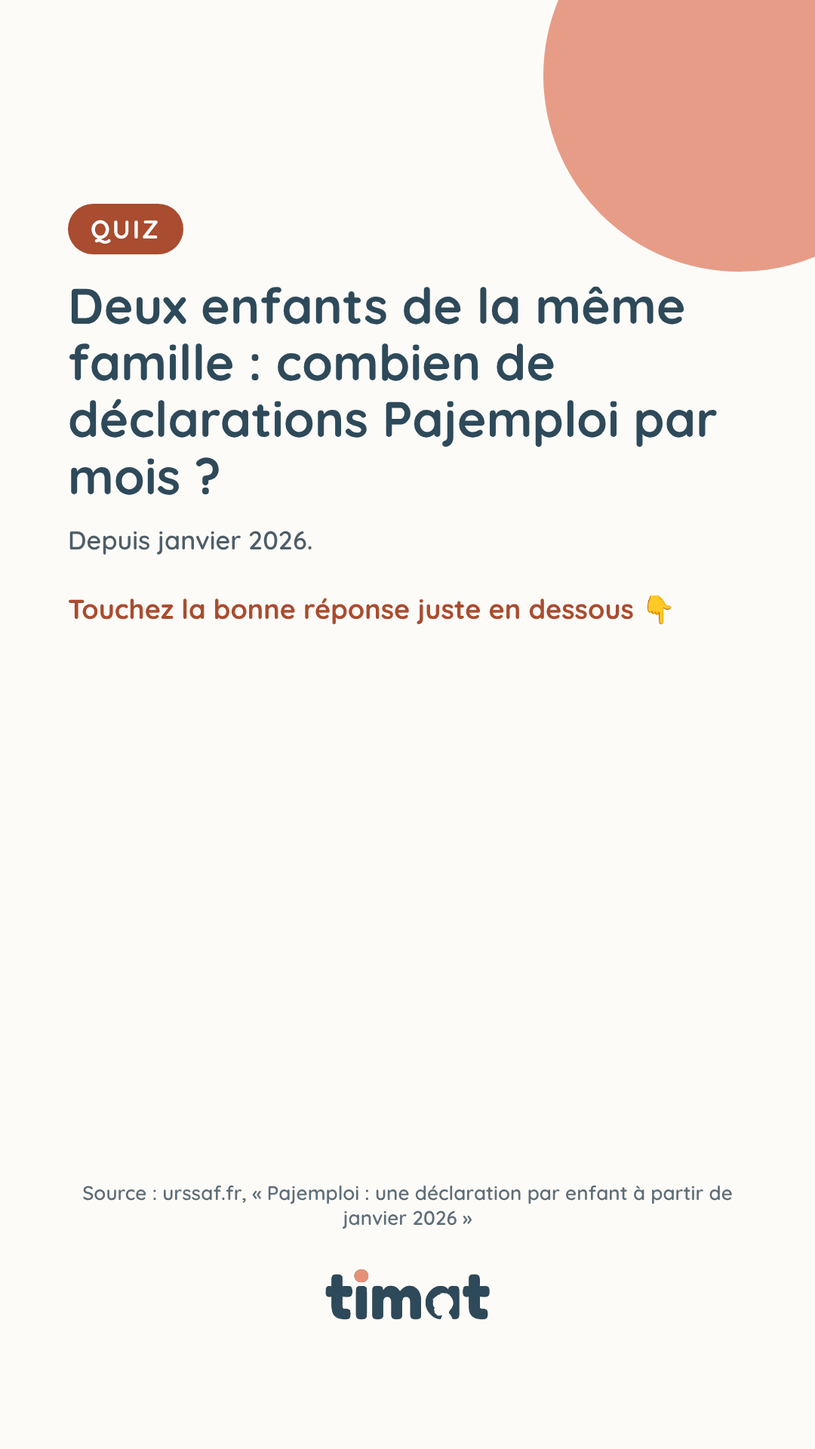
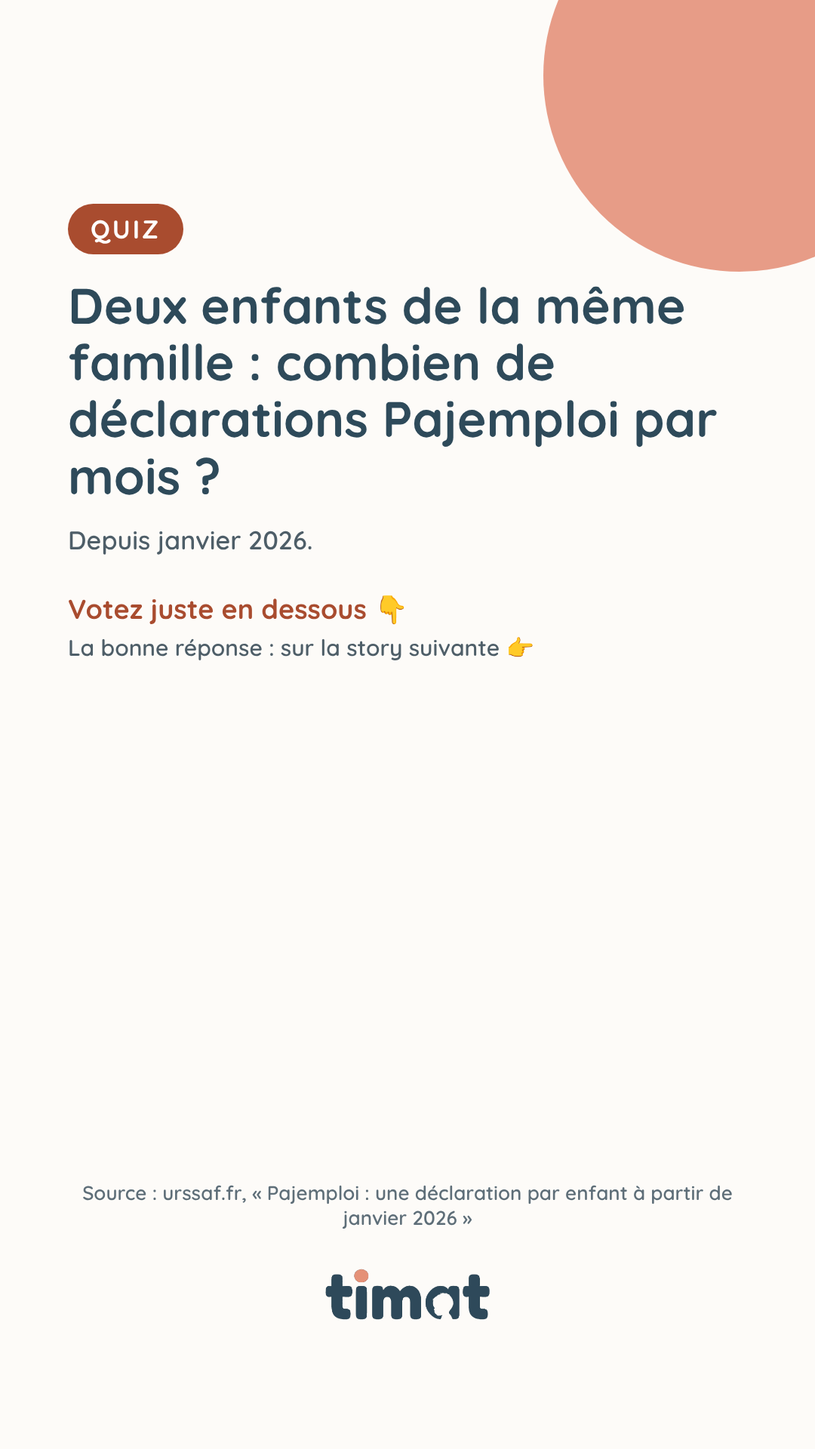
Titre AM-AP, minimum conventionnel, quiz en sondage avec la réponse juste après (#296)
Titre professionnel : l'avenant n° 10 du 5 février 2026 à l'annexe 5
(étendu) vise « Assistant maternel – Assistant parental » (AM-AP).
L'application et le vérificateur de bulletin ne nommaient que l'ancien
titre « Garde d'enfants » (AM-GE) : les deux sont désormais nommés, la
majoration de 4 % ne change pas (la DREETS Pays de la Loire l'applique
encore à l'ancien titre).

Un taux sous 4,20 € était dit « sous le minimum légal » (alerte du contrat,
note du bulletin, récapitulatif Pajemploi) : le minimum légal est
0,281 × SMIC, soit 3,46 €. 4,20 € est le minimum conventionnel. Barrière
d'audit prouvée en cassant ; contrôles existants et parcours navigateur
alignés sur le nouveau libellé.

Quiz : l'astuce du Reel en brouillon n'a pas fait revenir l'autocollant
Quiz sur le compte de Sophie. Repli : autocollant Sondage, puis la bonne
réponse en vert sur la story suivante, publiée au même moment, jamais le
soir. Images 27, 29, 40, 42, kit et CLAUDE.md à jour.

Claude-Session: https://claude.ai/code/session_01JVfHnHqQqeEKwpYvot8sHP

Changed region(s): [[0.0917, 0.4062, 0.7639, 0.4688], [0.7944, 0.4062, 0.825, 0.4375]]

diff --git a/docs/reseaux-sociaux/kit-reseaux.html b/docs/reseaux-sociaux/kit-reseaux.html
@@ -537,20 +537,20 @@ Jamais</pre></div>
 
     <h3>Une story par jour, du 24 au 30 octobre</h3>
     <p>Mêmes gestes que ST1 et ST2 : l'image depuis vos photos, puis l'autocollant indiqué, posé dans l'espace vide. Les jours de publication programmée (26, 28 et 30 octobre à 20 h 30), la story est la publication elle-même : soit l'image de story faite exprès (43 et suivantes), programmée dans Meta Business Suite à 20 h 35, soit, sous la publication, l'avion en papier → <b>Ajouter à votre story</b>.</p>
-    <p class="note"><b>Le vrai quiz d'Instagram</b> (demande de Sophie, 27/10 : on touche une réponse, elle devient verte si c'est la bonne, rouge sinon, tout de suite). Seul l'autocollant <b>Quiz</b> le fait. Il manquait sur le compte de Sophie ; l'astuce ci-dessous le fait revenir chez beaucoup de comptes depuis le printemps 2026 (Storrito). L'image quiz (27, 29, 40, 42) porte la question ; les réponses vont dans l'autocollant, posé sous « Touchez la bonne réponse juste en dessous ». Juste après, au même moment, on peut publier l'image d'explication (55 à 58 : la bonne réponse en vert et la source). Si l'autocollant Quiz reste introuvable : autocollant Sondage avec les mêmes réponses, puis l'image d'explication tout de suite après.</p>
+    <p class="note"><b>Le quiz sur le compte de Sophie</b>. Elle voulait le vrai quiz d'Instagram (réponse verte ou rouge tout de suite) : l'autocollant <b>Quiz</b> manque sur son compte, et l'astuce du Reel en brouillon n'a rien changé (28/10). On fait donc : l'image quiz (27, 29, 40, 42) avec l'autocollant <b>Sondage</b> et les réponses du tableau, puis <b>tout de suite après</b>, au même moment, l'image réponse (55 à 58, bonne réponse en vert). La personne vote, touche à droite, et voit la réponse aussitôt. Jamais la réponse le soir.</p>
     <ol class="etapes">
-      <li><b>Faire revenir l'autocollant Quiz</b> (une seule fois) : mettre à jour Instagram (App Store) ; dans Instagram, « + » → <b>Reel</b> → n'importe quelle image → <b>Suivant</b> → icône des autocollants → chercher « Quiz » → le toucher, taper n'importe quoi → <b>OK</b> → flèche retour → <b>Supprimer</b> (ou Enregistrer le brouillon). Ensuite, dans une story, le Quiz apparaît dans les autocollants récents. Si rien : se déconnecter puis se reconnecter, ou réinstaller l'application.</li>
-      <li><b>Le quiz</b> : « + » → <b>Story</b> → l'image quiz → icône des autocollants → <b>Quiz</b> → question « Votre réponse ? » → taper les réponses du tableau (« Ajouter une option » pour la troisième) → toucher la bonne réponse : elle devient verte → <b>OK</b> → placer l'autocollant sous « Touchez la bonne réponse » → <b>Votre story</b>.</li>
-      <li>Facultatif, juste après : l'image d'explication (55 à 58) en deuxième story, sans autocollant.</li>
+      <li><b>Story 1, le quiz</b> : « + » → <b>Story</b> → l'image quiz → icône des autocollants → <b>Sondage</b> → question « Votre réponse ? » → taper les réponses du tableau (« Ajouter une option » pour la troisième) → <b>OK</b> → placer l'autocollant sous « Votez juste en dessous » → <b>Votre story</b>.</li>
+      <li><b>Story 2, juste après</b> : « + » → <b>Story</b> → l'image réponse (55 à 58) → <b>Votre story</b>, sans autocollant.</li>
+      <li>Si un jour l'autocollant <b>Quiz</b> apparaît : le prendre à la place du Sondage, toucher la bonne réponse pour qu'elle devienne verte ; l'image réponse reste facultative.</li>
     </ol>
     <div class="grille">
       <figure><img src="visuels/25-story-boite-questions-1080x1920.png" alt="Fond : Une question sur votre contrat, votre salaire ou Pajemploi ? Posez-la ici"><figcaption>25 · questions</figcaption></figure>
       <figure><img src="visuels/26-story-sondage-1080x1920.png" alt="Fond de sondage : Votre avis en un clic"><figcaption>26 · sondage</figcaption></figure>
-      <figure><img src="visuels/27-story-quiz-minimum-1080x1920.png" alt="Fond de quiz : le salaire minimum d'une assistante maternelle depuis le 1er juin 2026 ? Touchez la bonne réponse juste en dessous"><figcaption>27 · quiz minimum</figcaption></figure>
+      <figure><img src="visuels/27-story-quiz-minimum-1080x1920.png" alt="Fond de quiz : le salaire minimum d'une assistante maternelle depuis le 1er juin 2026 ? Votez juste en dessous, la bonne réponse sur la story suivante"><figcaption>27 · quiz minimum</figcaption></figure>
       <figure><img src="visuels/28-story-11-novembre-1080x1920.png" alt="Mercredi 11 novembre, jour férié : payé normalement sous conditions, +10 % s'il est travaillé"><figcaption>28 · 11 novembre</figcaption></figure>
-      <figure><img src="visuels/29-story-quiz-pajemploi-1080x1920.png" alt="Fond de quiz : deux enfants de la même famille, combien de déclarations Pajemploi par mois ? Touchez la bonne réponse juste en dessous"><figcaption>29 · quiz Pajemploi</figcaption></figure>
-      <figure><img src="visuels/55-story-reponse-minimum-1080x1920.png" alt="Explication du quiz : 4,20 euros brut de l'heure, en vert"><figcaption>55 · réponse minimum</figcaption></figure>
-      <figure><img src="visuels/56-story-reponse-pajemploi-1080x1920.png" alt="Explication du quiz : deux déclarations, en vert"><figcaption>56 · réponse Pajemploi</figcaption></figure>
+      <figure><img src="visuels/29-story-quiz-pajemploi-1080x1920.png" alt="Fond de quiz : deux enfants de la même famille, combien de déclarations Pajemploi par mois ? Votez juste en dessous, la bonne réponse sur la story suivante"><figcaption>29 · quiz Pajemploi</figcaption></figure>
+      <figure><img src="visuels/55-story-reponse-minimum-1080x1920.png" alt="Réponse du quiz : 4,20 euros brut de l'heure, en vert"><figcaption>55 · réponse minimum</figcaption></figure>
+      <figure><img src="visuels/56-story-reponse-pajemploi-1080x1920.png" alt="Réponse du quiz : deux déclarations, en vert"><figcaption>56 · réponse Pajemploi</figcaption></figure>
     </div>
     <div class="tableau"><table>
       <thead><tr><th>Jour</th><th>Story</th><th>Autocollant</th><th>À la une</th></tr></thead>
@@ -558,10 +558,10 @@ Jamais</pre></div>
         <tr><td>Sam. 24/10</td><td>Image 25</td><td><b>Questions</b> : « Posez votre question 👇 »</td><td>Vos questions</td></tr>
         <tr><td>Dim. 25/10</td><td>Image 26</td><td><b>Sondage</b> : « Vos parents signent-ils un relevé d'heures chaque mois ? » Oui / Non</td><td>Vos questions</td></tr>
         <tr><td>Lun. 26/10</td><td>La publication congés payés, après 20 h 30</td><td>aucun</td><td>Congés</td></tr>
-        <tr><td>Mar. 27/10</td><td>Image 27, puis juste après l'image 55 (explication)</td><td><b>Quiz</b> : 3,46 € / 3,64 € / 4,20 € (bonne réponse : <b>4,20 €</b>)</td><td>Salaire</td></tr>
+        <tr><td>Mar. 27/10</td><td>Image 27, puis juste après l'image 55 (réponse)</td><td><b>Sondage</b> : 3,46 € / 3,64 € / 4,20 € (bonne réponse : <b>4,20 €</b>, sur l'image 55)</td><td>Salaire</td></tr>
         <tr><td>Mer. 28/10</td><td>Image 43 programmée à 20 h 35 (ou la publication crédit d'impôt repartagée après 20 h 30)</td><td>aucun</td><td>aucune (sujet des parents)</td></tr>
         <tr><td>Jeu. 29/10</td><td>Image 28</td><td><b>Lien</b> vers l'article des jours fériés, texte « Lire l'article »</td><td>Salaire</td></tr>
-        <tr><td>Ven. 30/10</td><td>Image 29, puis juste après l'image 56 (explication) ; l'image 23 avec le lien du groupe ; à 20 h 35, l'image 44 programmée</td><td><b>Quiz</b> : Une seule / Deux (bonne réponse : <b>Deux</b>) ; puis <b>Lien</b> vers le groupe</td><td>Pajemploi et Le groupe</td></tr>
+        <tr><td>Ven. 30/10</td><td>Image 29, puis juste après l'image 56 (réponse) ; l'image 23 avec le lien du groupe ; à 20 h 35, l'image 44 programmée</td><td><b>Sondage</b> : Une seule / Deux (bonne réponse : <b>Deux</b>, sur l'image 56) ; puis <b>Lien</b> vers le groupe</td><td>Pajemploi et Le groupe</td></tr>
       </tbody>
     </table></div>
     <div class="colle"><div class="haut"><span class="nom">Lien du 29/10 (article jours fériés)</span><button class="copier" data-cible="st-feries">Copier</button></div>
@@ -570,21 +570,21 @@ Jamais</pre></div>
 
     <h3>Une story par jour, du 31 octobre au 6 novembre</h3>
     <div class="grille">
-      <figure><img src="visuels/40-story-quiz-conges-1080x1920.png" alt="Fond de quiz : combien de jours de congés payés acquis par mois de travail ? Touchez la bonne réponse juste en dessous"><figcaption>40 · quiz congés</figcaption></figure>
+      <figure><img src="visuels/40-story-quiz-conges-1080x1920.png" alt="Fond de quiz : combien de jours de congés payés acquis par mois de travail ? Votez juste en dessous, la bonne réponse sur la story suivante"><figcaption>40 · quiz congés</figcaption></figure>
       <figure><img src="visuels/41-story-pajemploi-5-novembre-1080x1920.png" alt="Rappel Pajemploi : octobre se déclare jusqu'au 5 novembre"><figcaption>41 · Pajemploi</figcaption></figure>
-      <figure><img src="visuels/42-story-quiz-preavis-1080x1920.png" alt="Fond de quiz : 6 mois d'accueil, le parent retire l'enfant, quel préavis ? Touchez la bonne réponse juste en dessous"><figcaption>42 · quiz préavis</figcaption></figure>
-      <figure><img src="visuels/57-story-reponse-conges-1080x1920.png" alt="Explication du quiz : 2,5 jours par mois, en vert"><figcaption>57 · réponse congés</figcaption></figure>
-      <figure><img src="visuels/58-story-reponse-preavis-1080x1920.png" alt="Explication du quiz : 15 jours de préavis, en vert"><figcaption>58 · réponse préavis</figcaption></figure>
+      <figure><img src="visuels/42-story-quiz-preavis-1080x1920.png" alt="Fond de quiz : 6 mois d'accueil, le parent retire l'enfant, quel préavis ? Votez juste en dessous, la bonne réponse sur la story suivante"><figcaption>42 · quiz préavis</figcaption></figure>
+      <figure><img src="visuels/57-story-reponse-conges-1080x1920.png" alt="Réponse du quiz : 2,5 jours par mois, en vert"><figcaption>57 · réponse congés</figcaption></figure>
+      <figure><img src="visuels/58-story-reponse-preavis-1080x1920.png" alt="Réponse du quiz : 15 jours de préavis, en vert"><figcaption>58 · réponse préavis</figcaption></figure>
     </div>
     <div class="tableau"><table>
       <thead><tr><th>Jour</th><th>Story</th><th>Autocollant</th><th>À la une</th></tr></thead>
       <tbody>
-        <tr><td>Sam. 31/10</td><td>Image 40, puis juste après l'image 57 (explication)</td><td><b>Quiz</b> : 2 jours / 2,5 jours / 3 jours (bonne réponse : <b>2,5 jours</b>)</td><td>Congés</td></tr>
+        <tr><td>Sam. 31/10</td><td>Image 40, puis juste après l'image 57 (réponse)</td><td><b>Sondage</b> : 2 jours / 2,5 jours / 3 jours (bonne réponse : <b>2,5 jours</b>, sur l'image 57)</td><td>Congés</td></tr>
         <tr><td>Dim. 1/11</td><td>Image 26</td><td><b>Sondage</b> : « La fin de contrat, ça vous stresse ? » Oui / Non</td><td>Vos questions</td></tr>
         <tr><td>Lun. 2/11</td><td>Image 45 programmée à 20 h 35 (ou la publication repartagée après 20 h 30)</td><td>aucun</td><td>Indemnités</td></tr>
         <tr><td>Mar. 3/11</td><td>Image 41</td><td><b>Lien</b> vers le simulateur Pajemploi de TiMat, texte « Le simulateur »</td><td>Pajemploi</td></tr>
         <tr><td>Mer. 4/11</td><td>Image 46 programmée à 20 h 35 (ou la publication repartagée après 20 h 30)</td><td>aucun</td><td>L'appli</td></tr>
-        <tr><td>Jeu. 5/11</td><td>Image 42, puis juste après l'image 58 (explication)</td><td><b>Quiz</b> : 8 jours / 15 jours / 1 mois (bonne réponse : <b>15 jours</b> ; le détail vendredi avec la publication du préavis et l'image 47)</td><td>Vos questions</td></tr>
+        <tr><td>Jeu. 5/11</td><td>Image 42, puis juste après l'image 58 (réponse)</td><td><b>Sondage</b> : 8 jours / 15 jours / 1 mois (bonne réponse : <b>15 jours</b>, sur l'image 58 ; le détail vendredi avec la publication du préavis et l'image 47)</td><td>Vos questions</td></tr>
         <tr><td>Ven. 6/11</td><td>Image 47 programmée à 20 h 35 (ou la publication 11, préavis, repartagée après 20 h 30) ; puis l'image 23 avec le lien du groupe</td><td>aucun, puis <b>Lien</b> vers le groupe</td><td>Indemnités, puis Le groupe</td></tr>
       </tbody>
     </table></div>

diff --git a/src/gestion.jsx b/src/gestion.jsx
@@ -39,8 +39,8 @@ export function AlerteTauxMinimum({taux,date,debut,titreAmge}){
     border:"1px solid var(--R)",borderRadius:10,padding:"10px 12px",margin:"10px 0",
     fontSize:12.5,color:"var(--R)",lineHeight:1.55}}>
     <IconeOuEmoji e="⚠" taille={16}/>
-    <span><b>Taux horaire sous le minimum légal.</b> {nbf(t,2)} € par heure et par enfant,
-    alors que le minimum est de {nbf(mini,2)} €{titreAmge?" avec le titre AM-GE (+ 4 %)":""} (convention collective IDCC 3239).
+    <span><b>Taux horaire sous le minimum conventionnel.</b> {nbf(t,2)} € par heure et par enfant,
+    alors que le minimum est de {nbf(mini,2)} €{titreAmge?" avec le titre professionnel (+ 4 %)":""} (convention collective IDCC 3239).
     {revalorise
       ?<> Ce taux était conforme à la signature ({nbf(miniDebut,2)} € alors) : c'est le minimum qui a été revalorisé depuis. Un avenant au contrat est nécessaire pour le porter au moins à {nbf(mini,2)} €, avec effet à la date de la revalorisation.</>
       :" Un avenant est nécessaire pour régulariser."}</span>
@@ -189,7 +189,7 @@ export function Facturation({enfants,role,pEId,user,pointagesDB}){
       '<div class="box"><h2>💰 Salaire à déclarer</h2>',
       // Le taux applique, et s'il a ete releve au minimum, le taux du contrat a
       // cote : le parent qui compare a son contrat doit comprendre l'ecart.
-      '<table><tr><td>Taux horaire brut '+(tauxPaj>(Number(contrat?.tauxHoraire)||0)?'(minimum légal ; contrat : '+nbf((contrat?.tauxHoraire||0),2)+' €)':'(contrat)')+'</td><td>'+nbf(tauxPaj,2)+' €/h</td></tr>',
+      '<table><tr><td>Taux horaire brut '+(tauxPaj>(Number(contrat?.tauxHoraire)||0)?'(minimum conventionnel ; contrat : '+nbf((contrat?.tauxHoraire||0),2)+' €)':'(contrat)')+'</td><td>'+nbf(tauxPaj,2)+' €/h</td></tr>',
       '<tr><td>Salaire brut du mois</td><td>'+nbf(totalBrut,2)+' €</td></tr>',
       '<tr class="hl"><td>Salaire NET à déclarer</td><td>'+salNet+' €</td></tr>',
       '<tr><td>Indemnité d\'entretien (ligne distincte)</td><td>'+nbf(entretienMois,2)+' €</td></tr>',
@@ -1448,8 +1448,8 @@ template:"bulletin_sent",
           border:"1px solid var(--B)",borderRadius:10,padding:"10px 12px",margin:"10px 0",
           fontSize:12.5,color:"var(--b)",lineHeight:1.55}}>
           <IconeOuEmoji e="ℹ" taille={16}/>
-          <span><b>Taux relevé au minimum légal.</b> Le contrat prévoit {nbf(tauxContrat,2)} € de l'heure,
-          mais le minimum conventionnel en vigueur ce mois-ci est de {nbf(tauxH,2)} €{user?.titre_amge?" avec le titre AM-GE (+ 4 %)":""} (IDCC 3239).
+          <span><b>Taux relevé au minimum conventionnel.</b> Le contrat prévoit {nbf(tauxContrat,2)} € de l'heure,
+          mais le minimum conventionnel en vigueur ce mois-ci est de {nbf(tauxH,2)} €{user?.titre_amge?" avec le titre professionnel (+ 4 %)":""} (IDCC 3239).
           Ce bulletin est donc calculé à {nbf(tauxH,2)} € : une clause moins favorable que la convention est réputée non écrite.
           Un avenant au contrat est recommandé pour le mettre à jour.</span>
         </div>}

diff --git a/src/ecrans-secondaires.jsx b/src/ecrans-secondaires.jsx
@@ -844,8 +844,12 @@ export function Parametres({user,onLogout,setPage,isPro,isTrialing,lancerCheckou
           {user?.numero_agrement&&<div style={{fontSize:11,color:"var(--S)",marginTop:4}}>
             <IconeOuEmoji e="✅"/> Numéro enregistré : {user.numero_agrement}
           </div>}
-          {/* Le titre AM-GE majore de 4 % le salaire horaire minimum (CCN 3239,
-              article 113 et annexe 5). Sans cette information, l'application
+          {/* Le titre professionnel de branche majore de 4 % le salaire horaire
+              minimum (CCN 3239, annexe 5). L'avenant n° 10 du 5 fevrier 2026 vise
+              le titre « Assistant maternel – Assistant parental » (AM-AP), qui a
+              remplace « Assistant maternel – Garde d'enfants » (AM-GE) ; la
+              DREETS Pays de la Loire (fiche du 12/06/2026) applique encore la
+              majoration a l'ancien titre. Sans cette information, l'application
               declarerait conforme un taux pourtant sous le plancher. */}
           <label style={{display:"flex",alignItems:"flex-start",gap:9,marginTop:14,cursor:"pointer"}}>
             <input type="checkbox" checked={!!user?.titre_amge} style={{marginTop:2,width:16,height:16,cursor:"pointer",accentColor:"var(--accent)"}}
@@ -854,10 +858,10 @@ export function Parametres({user,onLogout,setPage,isPro,isTrialing,lancerCheckou
                 const{error}=await supabase.from("profiles").update({titre_amge:v}).eq("id",user.id);
                 if(error){setToast("Erreur : "+error.message);return;}
                 setUser&&setUser(u=>({...u,titre_amge:v}));
-                setToast(v?"Titre AM-GE enregistré — minimum majoré de 4 % ✓":"Titre AM-GE retiré ✓");
+                setToast(v?"Titre professionnel enregistré — minimum majoré de 4 % ✓":"Titre professionnel retiré ✓");
               }}/>
             <span style={{fontSize:13,color:"var(--b)",lineHeight:1.5}}>
-              Je suis titulaire du titre professionnel <b>Assistant maternel – Garde d'enfants</b>
+              Je suis titulaire du titre professionnel <b>Assistant maternel – Assistant parental</b> (ou de l'ancien titre <b>Assistant maternel – Garde d'enfants</b>)
               <span style={{display:"block",fontSize:11.5,color:"var(--m)",marginTop:2}}>
                 Votre salaire horaire minimum est alors majoré de 4 % : {nbf(minimumHoraireAu(new Date(),true),2)} € au lieu de {nbf(minimumHoraireAu(new Date(),false),2)} €.
               </span>

diff --git a/public/verificateur-bulletin-assistante-maternelle.html b/public/verificateur-bulletin-assistante-maternelle.html
@@ -169,7 +169,7 @@
       <tr><th>Minimum conventionnel</th><td><strong>4,20 € brut</strong> par heure d'accueil et par enfant depuis le 1<sup>er</sup> juin 2026, soit 3,28 € net (3,23 € en Alsace-Moselle). Avenant n° 10 du 5 février 2026 à la convention collective, étendu.</td></tr>
     </table>
     <p>La convention collective s'applique à tous les particuliers employeurs : c'est donc <strong>4,20 €</strong> le vrai plancher, et non 3,46 €. Un bulletin à 3,80 € de l'heure est en règle au regard de la loi, et sous-payé au regard de la convention.</p>
-    <p>Le titre de branche « assistant maternel – garde d'enfants » ouvre droit à une majoration de 4 %, ce qui porte le minimum à <strong>4,37 € brut</strong> (3,41 € net). Saisissez alors 4,37 dans le champ de référence.</p>
+    <p>Le titre de branche « assistant maternel – assistant parental » (qui a remplacé « assistant maternel – garde d'enfants ») ouvre droit à une majoration de 4 % (avenant n° 10 du 5 février 2026), ce qui porte le minimum à <strong>4,37 € brut</strong> (3,41 € net). Saisissez alors 4,37 dans le champ de référence.</p>
 
     <h3>2. La mensualisation</h3>
     <p>Le salaire de base se calcule une fois pour toutes : <strong>taux horaire × heures par semaine × 52 ÷ 12</strong> en année complète, congés payés compris ; en année incomplète (46 semaines ou moins), on remplace 52 par les semaines programmées au contrat. Il ne bouge pas d'un mois sur l'autre, quelles que soient les absences de l'enfant, sauf les quelques absences que la convention permet de déduire (maladie de l'enfant justifiée, dans des limites précises). Un salaire de base qui varie chaque mois est le signe d'une mensualisation mal posée — ou pas posée du tout.</p>

diff --git a/src/App.jsx b/src/App.jsx
@@ -3129,8 +3129,10 @@ export const MINIMUM_CONV_HISTO=[
   ["2024-01-01",3.64],
 ];
 export const COEF_MINIMUM_LEGAL=0.281;
-// Titre professionnel « Assistant maternel - Garde d'enfants » : le minimum
-// conventionnel est majore de 4 % (CCN 3239, article 113 et annexe 5), soit
+// Titre professionnel de branche « Assistant maternel - Assistant parental »
+// (AM-AP, avenant n° 10 du 5 fevrier 2026), qui a remplace « Assistant
+// maternel - Garde d'enfants » (AM-GE) : le minimum conventionnel est majore
+// de 4 % (CCN 3239, annexe 5), soit
 // 4,37 EUR brut au lieu de 4,20 EUR. Sans ce cas, l'application aurait declare
 // conforme un taux de 4,25 EUR pourtant sous le plancher d'une titulaire.
 export const MAJORATION_TITRE_AMGE=0.04;

diff --git a/index.html b/index.html
@@ -182,7 +182,7 @@
         <p>Le salaire minimum, la mensualisation, les congés, la déclaration Pajemploi : les réponses aux questions qui reviennent.</p>
 
         <h2>Ressources pour les assmats</h2>
-        <p>87 guides pratiques gratuits, chacun adossé à ses sources officielles, et des simulateurs sans inscription.</p>
+        <p>88 guides pratiques gratuits, chacun adossé à ses sources officielles, et des simulateurs sans inscription.</p>
 
         <nav aria-label="Ressources">
           <ul>

diff --git a/data/nombre-guides.js b/data/nombre-guides.js
@@ -1,3 +1,3 @@
 // Ecrit par scripts/generate-blog.mjs a chaque build. Ne pas modifier a la main.
-export const NOMBRE_GUIDES = 87;
+export const NOMBRE_GUIDES = 88;
 export default NOMBRE_GUIDES;

diff --git a/docs/passation-2026-10-13.md b/docs/passation-2026-10-13.md
@@ -725,6 +725,38 @@ l'écran Fin de contrat.
   - Commentaire Instagram d'`epimeno.care` sous la publication congés payés
     (« C'est clair et utile, merci pour ce rappel ») : réponse proposée à
     Sophie, à poster elle-même.
+- **28/10** :
+  - Indexation du 28/10 : liste envoyée seule (10 adresses, toutes en 200) ;
+    Sophie la fait le 28 au soir. **À noter ici** : jusqu'à quel numéro. Le
+    rappel du 29/10 (`trig_01KsrS1YcpEnqcEEBYPjQMkm`) est décalé au 29/10 à
+    21 h 13 (Paris) pour laisser passer le quota glissant d'environ 24 h.
+  - **Quiz** : l'astuce du Reel en brouillon n'a rien donné, l'autocollant
+    Quiz reste introuvable. Repli adopté : image quiz + Sondage, puis TOUT
+    DE SUITE l'image réponse (55 à 58, bonne réponse en vert). Images 27,
+    29, 40, 42 : « Votez juste en dessous » + « La bonne réponse : sur la
+    story suivante ». Kit, rappel quotidien et CLAUDE.md à jour.
+  - **Chasse** :
+    - titre professionnel : l'avenant n° 10 du 5/02/2026 (étendu, Légifrance
+      KALIARTI000054254156) vise « Assistant maternel – Assistant parental »
+      (AM-AP) ; l'application, le vérificateur de bulletin et un article ne
+      parlaient que de l'ancien « Garde d'enfants » (AM-GE). La DREETS Pays
+      de la Loire (12/06/2026) cite encore l'ancien titre avec l'avenant n° 9.
+      Corrigé (les deux titres nommés, majoration 4 % inchangée) ;
+    - un taux sous 4,20 € était dit « sous le minimum légal » (écran de
+      paie, récapitulatif Pajemploi) : c'est le minimum conventionnel (le
+      légal est 3,46 €). Corrigé ;
+    - barrière d'audit sur ces deux points, prouvée en cassant (3 fois) ;
+    - article `salaire-assistante-maternelle-net-brut` : correction du titre
+      **EN BROUILLON** (`drafts.7bc11c82-4240-463f-80ba-81d9ba7c3fe7`), à
+      publier sur accord écrit de Sophie ;
+    - vérifiés sans erreur : les 14 publications Metricool du 6 au 27/11
+      (préavis, congé enfant malade art. 48-2-2, documents de fin de
+      contrat, 0,33 €/km arrêté du 29/05/2026, fin de contrat TiMat, repas
+      art. 114-2, absences de l'enfant art. 105, période d'essai) ;
+      pages du site : aucun « Pôle emploi », « RAM » seulement en
+      « anciennement », 1/120e seulement pour dire que c'est périmé,
+      SMIC de l'abattement fiscal par période (11,88 / 12,02 / 12,31 €),
+      indemnité d'entretien (0,435 €/h, plancher 2,65 €) cohérente.
 - **À vérifier** : le titre « Assistant maternel / Garde d'enfants »
   (RNCP 37795) n'est plus enregistré depuis le 19/07/2026, remplacé par
   « Assistant maternel - Assistant parental » (RNCP 42319, France
@@ -782,6 +814,8 @@ l'écran Fin de contrat.
   (Sophie préfère attendre pour la MAM).
 
 **Claude, à la prochaine session**
+- Publier la correction du titre dans `salaire-assistante-maternelle-net-brut`
+  dès l'accord écrit de Sophie.
 - Publier la correction de `projet-accueil-assistante-maternelle` dès
   l'accord écrit de Sophie.
 - La file de publication se vide après le 8 novembre : écrire d'autres

diff --git a/CLAUDE.md b/CLAUDE.md
@@ -36,9 +36,10 @@ et l'historique git font le lien. Donc :
   jour ») ; les stories à programmer dans Meta Business Suite lui sont
   envoyées 5 jours avant la fin de la série programmée en cours. Toujours
   des étapes très explicites, et les images À LA FIN du message, jamais au
-  milieu. Quiz (règle du 27/10) : le vrai autocollant « Quiz » d'Instagram,
-  réponse verte ou rouge sur le moment, jamais une réponse le soir ;
-  l'autocollant manquait sur son compte : astuce du Reel en brouillon (kit).
+  milieu. Quiz (règle du 27/10) : réponse sur le moment, jamais le soir.
+  L'autocollant « Quiz » manque sur son compte (astuce du Reel essayée en
+  vain le 28/10) : image quiz + autocollant Sondage, puis tout de suite
+  après l'image réponse (bonne réponse en vert).
 - Vocabulaire : « période de familiarisation » (référentiel national de la
   qualité d'accueil, 2025, employé par la PMI) ; au contrat, le terme reste
   « période d'adaptation » (convention collective, art. 94).
